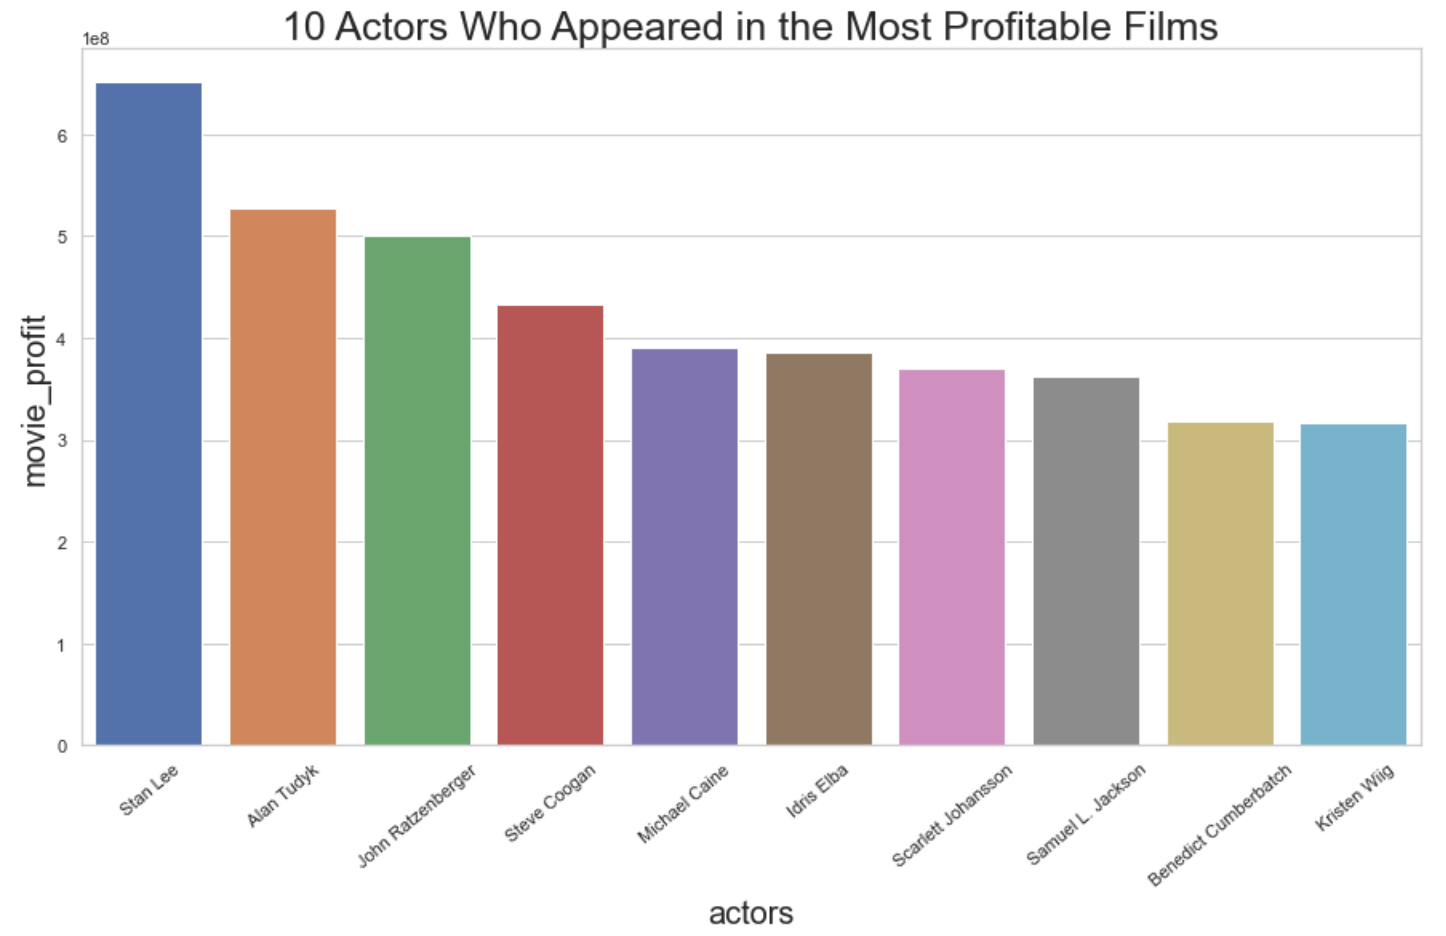
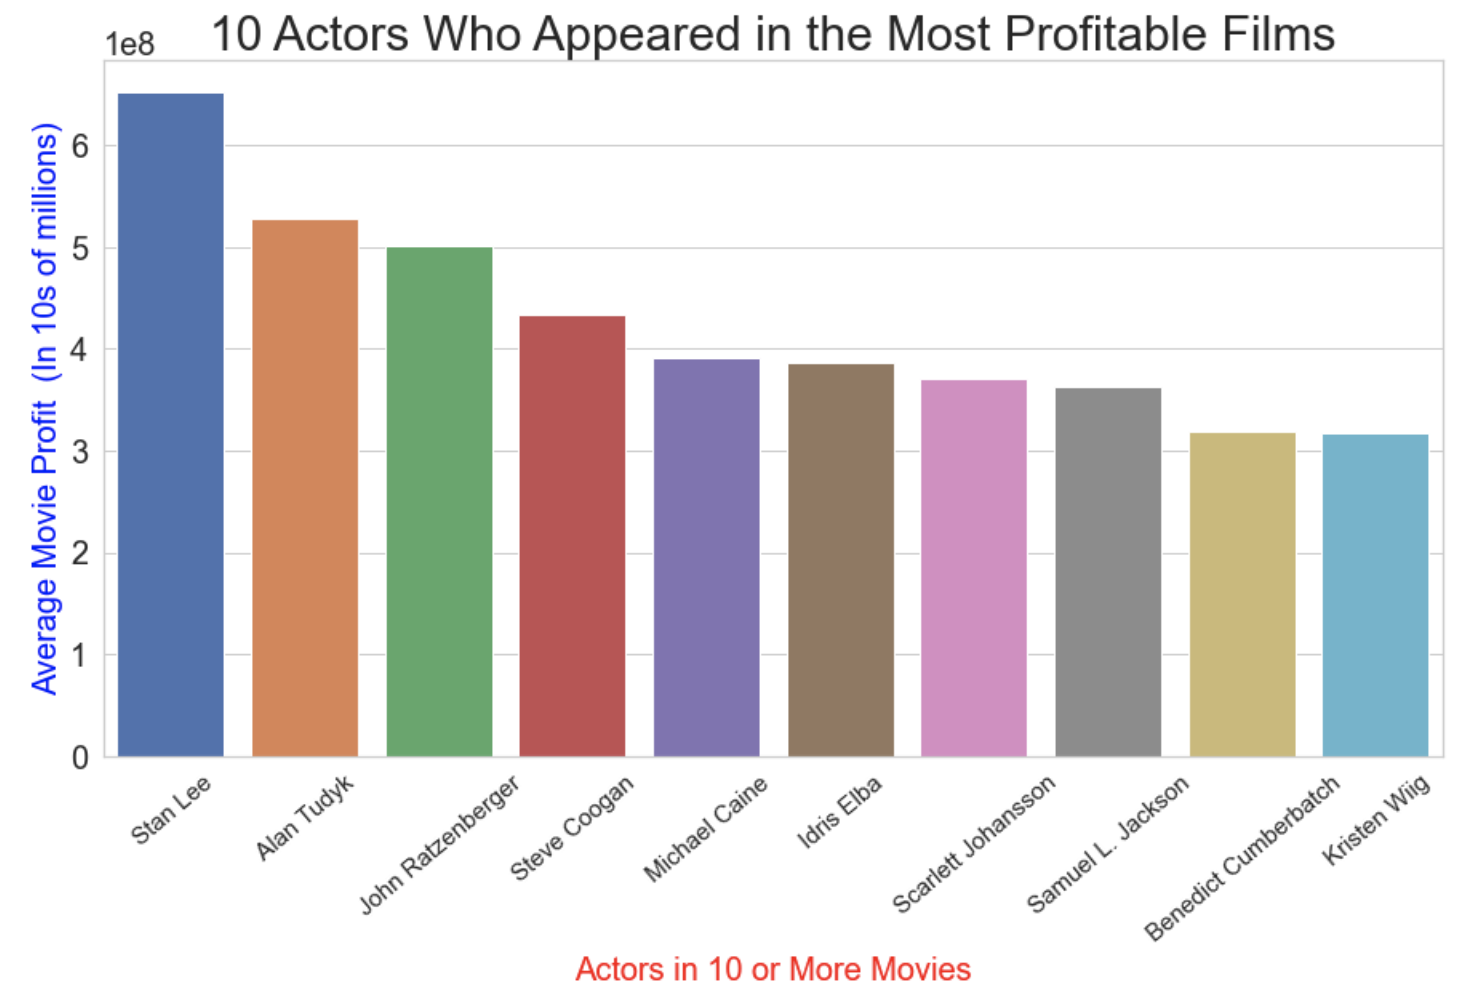
results

diff --git a/README.md b/README.md
@@ -7,30 +7,27 @@
 
 ## Overview
 
-The focus of this project was to analyze the current film industry to offer Microsoft Corporation the best approach to compete with them. We observed 11 tables that contained information on the film industry including movie cost, rating, profit, and actor information. We consolidated the data by observing and merging 4 tables together and found a total colelction of 1,455 movies. This analysis can be useful to the Microsoft Corporation to determine the most profitable solution for allocating their funding had they decided to go into the film industry. 
+The focus of this project was to analyze the current film industry to offer Microsoft Corporation the best approach to compete with their competitors. The project observed 11 tables that contained information on the film industry including movie cost, rating, profit, and actor information. The tables were then consolidated to 4 tables; the four tables contained a total collection of 1,455 movies. This analysis can be useful to the Microsoft Corporation to determine the most profitable solution for allocating their funding had they decided to go into the film industry. 
 
 
-
-----
 ## After retreiving our information from the tables, we hypothesized that actors / actresses who appeared repeatedly (more that ten times) in the most profitable films would likely appear in the most successful films (films that had a profit at or above 300 million dollars and a tomatometer rating above 85). 
----
+
 
 
 
 ## Business Problem
 
-Microsoft Corporation may be able to focus their funding on hiring actors who have appeared in ten or more of the most profitable films in the industy to improve Microsoft's profitablility and success rate. Microsoft may also be able to improve the profitability of their films by placing a minimum budget on their films of 150,000,000 dollars to produce higher quality films. 
-
+Microsoft Corporation may be able to focus their funding on hiring actors who have appeared in ten or more of the most profitable films in the industy to improve Microsoft's profitablility and success rate. Microsoft may also be able to improve the profitability of their films by placing a minimum budget of 150 million dollars in order to produce higher quality films. 
 
 
 ## Data
 
-The 11 tables that we were given each contained a unique ID that was associated with the movie titles. These data sets contained information information about actors, movie bundget, gross returns, movie rating, and other film attributes.
+The 11 tables each contained a unique ID that was associated with the movie titles. These data sets contained information about actors, movie budget, gross returns, movie rating, and other film attributes.
 
 
 ## Methods
 
-This project uses discriptive analysis, such as the measure of variability for budget and profitability as well as the tendency for actors in the most profitable films. This provides useful information on the impact on budget as well as actors who have taken part in the most profitable films. 
+This project uses discriptive analyses, such as the measure of variability for budget and profitability as well as the tendency for actors in the most profitable films. This provides useful information on the impact on budget as well as actors who have taken part in the most profitable films. 
 
 ***
 Questions to consider:
@@ -40,20 +37,21 @@ Questions to consider:
 
 ## Results
 
-
-### Visual 1
+Budgets above 150 million dollars have a stronger correlation with profit that those below 150 million. 
 ![regression plot](images/regression.png)
 
-
-### Visual 2
+---
+The 10 Actors that appeared in 10 or more of the most profitable films tended to have a mean profit above 30 million.
 ![actor bar plot](images/bar_plot.png)
 
+---
 
-### Visual 3
+The 20 most successful movies filtered by budget over 150 million dollars, tomatometer rating above 85, and profit above 300 million dollars had a consistent tomatometer status of Certified-Fresh.
 ![top 20 bar plot](images/20_bar_plot.png)
 
+---
 
-### Visual 4
+The 10 actors who appeared in 10 or more of the most profitable films appeared in the most successful 80% of the time. 
 ![pie plot](images/pie_plot.png)
 
 
